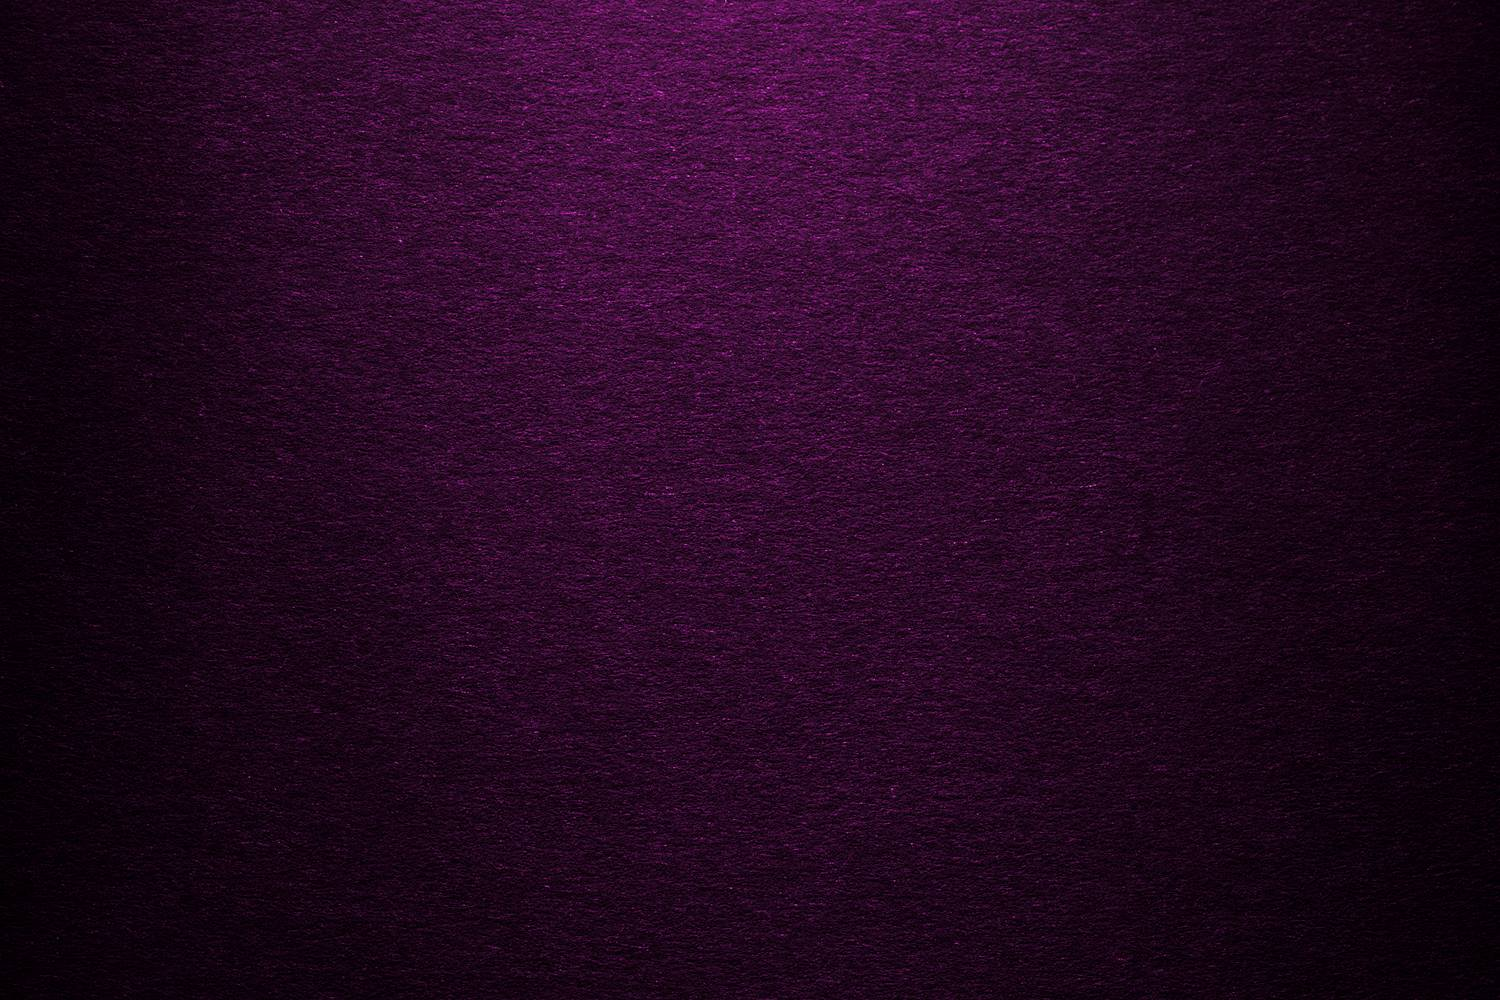
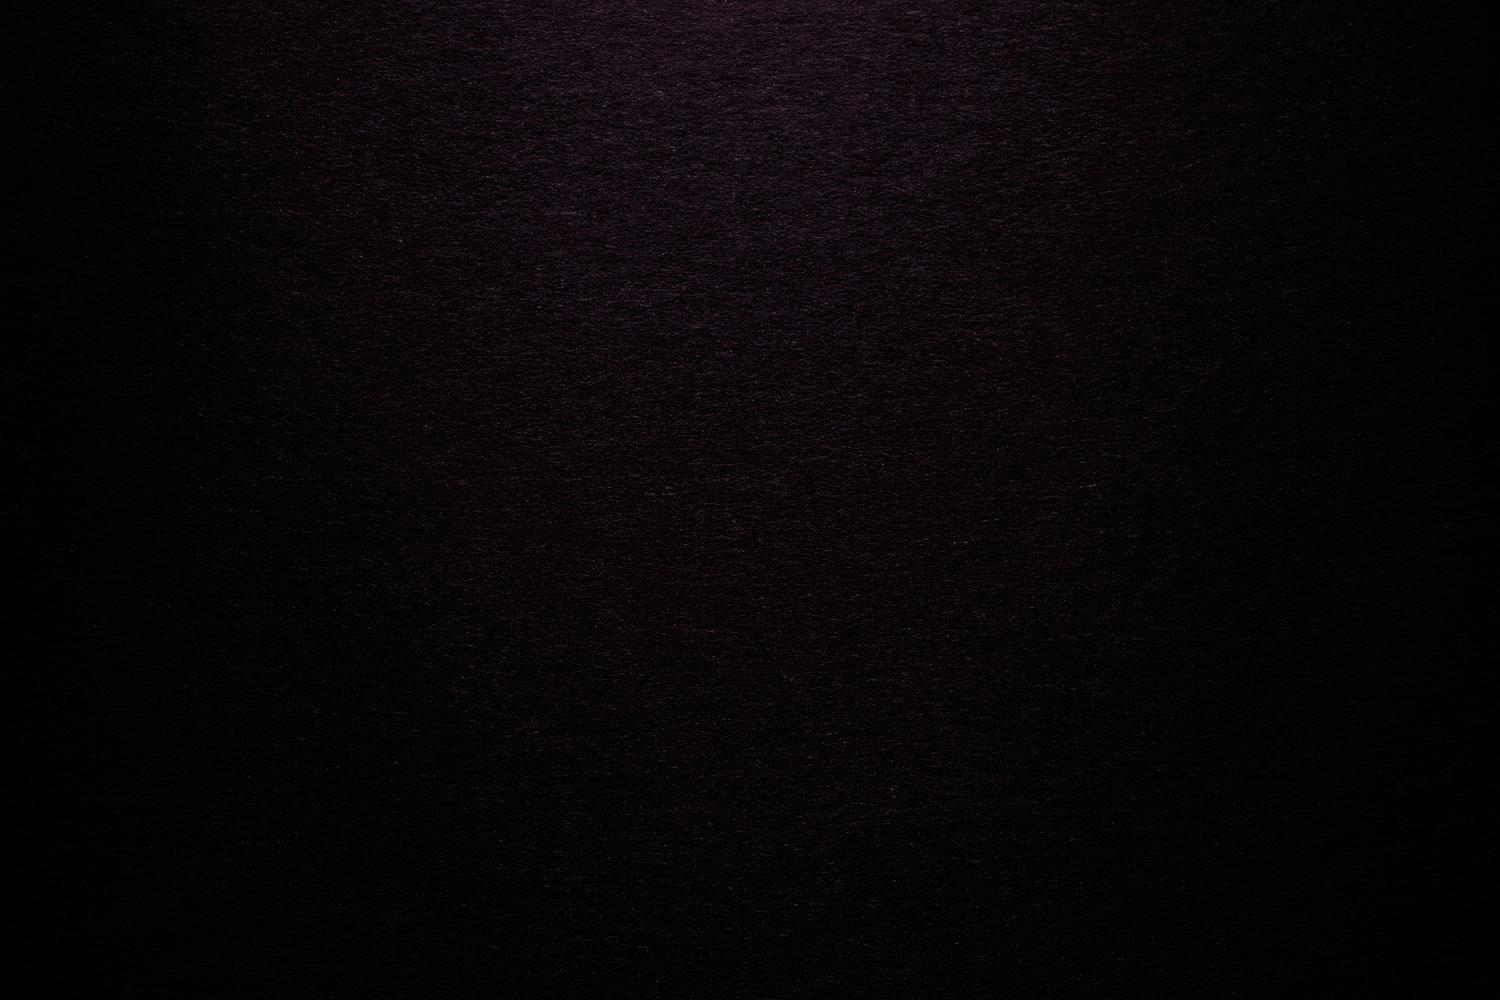
remade header added background image resized main div added "about me" section added first image with hovering added footer

diff --git a/index.html b/index.html
@@ -6,14 +6,20 @@
     <link rel="stylesheet" type="text/css" href="css/estilo.css"/>
 </head>
 <body>
-    <h1>はじめまして。ガブリエルです。</h1>
-    <h2>Site em construção! :)</h2>
     <div id="cabecalho">
-        Selecionar exibição:<br/>
-        <p>Lista&emsp;&emsp;&emsp;&emsp;Mosaico</p>
+    <h1><p>はじめまして。ガブリエルです。</p></h1>
+    <h2><p>Site under construction! :)</p></h2>
+        <main>
+             <p>Here I will expose my <a href="https://pt.wikipedia.org/wiki/Arte_digital" target="_blank">Digital Arts</a> as a personal project for learning HTML, CSS and JavaScript.<br/>
+             どうぞよろしく。</p>
+        </main>
     </div>
     <div id="corpo">
-        <p>Lorem ipsum dolor sit amet, consectetur adipiscing elit. Curabitur pharetra id dui quis mattis. Curabitur interdum felis non nibh tempor convallis. Praesent auctor ligula mattis lorem sagittis, eu posuere ipsum ornare. Aenean arcu est, feugiat sit amet est non, porttitor accumsan ex. Duis in posuere mi. Morbi tempor convallis orci. Donec dictum sodales lectus, quis pellentesque nisl malesuada sed. Vivamus tincidunt risus nisl, vel gravida sapien ultrices et. Donec ac aliquam augue. Suspendisse dignissim mauris at velit scelerisque, sit amet sagittis quam pretium.</p>
+        <h3>Hover the image! ;)</h3>
+        <figure class="imagenscorpo">
+            <img src="images/cavaco.png"/>
+            <figcaption>This is my favorite one, although I still don't now how to draw bodies the right way, I feel like it really describes me. I usually wear black or greyscale clothes, but I really am the funny guy of the group who plays heavier songs like Linkin Park with samba rhythm and always makes "dad jokes". Also I have more tattoos now than on the image. And more ear piercings too.</figcaption>
+        </figure>
 
         <p>Integer gravida neque quis turpis ornare, nec volutpat arcu venenatis. Phasellus accumsan blandit orci quis pellentesque. Etiam porta eros ac odio rhoncus, at condimentum ex auctor. Lorem ipsum dolor sit amet, consectetur adipiscing elit. Quisque viverra diam id ex varius interdum. Sed laoreet fermentum sodales. Maecenas rhoncus sit amet purus venenatis feugiat. Nullam nulla nulla, faucibus id ultrices in, fringilla id justo. Fusce eget volutpat nisl, vel ultrices magna. Etiam dui ipsum, luctus sed lectus aliquam, tincidunt condimentum ante. Donec eleifend, sem at ornare dignissim, enim diam viverra ligula, sit amet tempus arcu nisl vel felis. Cras sed mi ultricies, sodales est nec, facilisis erat. Aenean ut erat sit amet nunc dictum accumsan eget sed lorem. In luctus arcu quis mi ornare consequat. Duis maximus massa vel magna sollicitudin dictum. Aliquam ultricies ornare massa, vel maximus nisl.</p>
 
@@ -27,11 +33,26 @@
 
         <p>Phasellus volutpat tellus non vehicula molestie. Nam ut aliquam neque. Sed sit amet metus vel ante condimentum maximus non vitae tortor. Aenean a facilisis elit. Quisque hendrerit ligula quis pellentesque porta. Vestibulum dapibus aliquet venenatis. Quisque ac nisl nisl. Aliquam erat volutpat.</p>
 
-        <p>Cras in placerat tellus. Aenean non scelerisque tortor. Donec quis tristique risus, at porta tortor. Morbi ut vulputate arcu. Praesent luctus semper finibus. Proin nec congue velit. Aenean molestie arcu odio, nec tempor orci rhoncus eget. Sed tincidunt tortor eget est sagittis, vitae sollicitudin sem consectetur. Integer sit amet imperdiet risus, nec laoreet augue. Morbi non nulla quis ante laoreet tincidunt. Curabitur porttitor tortor sit amet diam vehicula feugiat. Aenean consectetur turpis quis tempus luctus. Suspendisse efficitur vehicula interdum.</p>
 
-        <p>Ut sit amet pretium ipsum, vel scelerisque elit. Ut ac orci eu eros eleifend blandit. Nullam tincidunt, erat vitae consequat laoreet, lectus arcu rutrum lectus, ac accumsan massa velit quis magna. Pellentesque a feugiat tortor. Mauris interdum aliquet est, at sagittis metus laoreet sit amet. Donec at laoreet tellus. Aliquam euismod sollicitudin ullamcorper. Sed id odio ac tortor aliquam fermentum tempor ut nunc. Praesent ultricies condimentum libero non sagittis. Class aptent taciti sociosqu ad litora torquent per conubia nostra, per inceptos himenaeos. Phasellus id consectetur tellus. Sed eu tincidunt nibh. Donec venenatis ultrices lectus quis congue.</p>
-
-        <p>Nullam ac malesuada elit. Quisque nisi augue, finibus in metus ut, consectetur sodales metus. Nulla vitae lectus at neque interdum feugiat. Pellentesque lacus nunc, auctor blandit risus nec, molestie rhoncus ante. Nulla facilisi. Vestibulum ornare tincidunt arcu, pharetra iaculis ex mollis sit amet. Pellentesque habitant morbi tristique senectus et netus et malesuada fames ac turpis egestas.</p>
     </div>
+    <div id="about">
+        <h1>ABOUT ME</h1>
+        <p>Brazilian, born in São José, Santa Catarina. Now living in Canoas, Rio Grande do Sul.</p>
+        <figure>
+            <img src="images/aboutme.jpg" align="right"/>
+        </figure>
+        <p>Studying Computer Science @ Universidade Federal do Rio Grande do Sul.</p>
+        <p>Mainly a C and Java programmer, now learning webdev with HTML, CSS and JavaScript.</p>
+        <p>My hobbies include digital drawing, as you can see, playing all music instruments I can get and watching tons of anime.</p>
+        <p>I speak Brazilian Portuguese, English, and currently leaning Japanese.</p>
+        <p>I guess that is it, so..</p>
+        <p><h2>Thanks for coming!<br/>
+            Obrigado por vir!<br/>
+            来ていただきありがとうございます！</h2></p>
+    </div>
+    <footer>
+        <p>Created by: Gabriel Luiz Carpes Maria<br/>
+        Last update: July 4th, 2018</p>
+    </footer>
 </body>
 </html>

diff --git a/css/estilo.css b/css/estilo.css
@@ -2,42 +2,145 @@
 
 body
 {
-    background-image: url(../_images/background.jpg);
+    background-image: url(../images/background.jpg);
+    background-attachment: fixed;
     background-color: #150738;
-}
-
-h1
-{
-    text-indent: 20px;
-    color: white;
-}
-
-h2
-{
-    text-indent: 20px;
-    color: white;
 }
 
 div#cabecalho
 {
-    font-size: 30px;
-    background-color: rgba(14, 4, 38, 0.4);
-    padding-left: 40px;
+    font-size: 18px;
+    text-indent: justify;
+    margin-left: 20px;
+    padding-left: 20px;
+    color: white;
+    max-width: 55%;
+}
+
+div#cabecalho h1
+{
+    margin-bottom: -80px;
+    color: white;
+}
+
+div#cabecalho h2
+{
     color: white;
 }
 
 div#cabecalho p
 {
-    text-align: center;
-    text-indent: 40px;
+    padding-left: 10px;
+    padding-right: 10px;
+    background-color: rgba(14, 4, 38, 0.65);
+    display: inline-block;
 }
+
 
 div#corpo
 {
+    padding-left: 10px;
+    padding-right: 10px;
+    margin-left: 20px;
     color: white;
     font-size: 20px;
+    text-indent: 15px;
     text-align: justify;
-    min-height: 90%;
-    min-width: 90%;
-    background-color: rgba(14, 4, 38, 0.4);
+    width: 60%;
+    background-color: rgba(14, 4, 38, 0.65);
+}
+
+div#corpo h3
+{
+    padding-top: 15px;
+}
+
+div#about
+{
+    max-width: 30%;
+    text-align: justify;
+    color: whitesmoke;
+    position: fixed;
+    padding-left: 10px;
+    padding-right: 10px;
+    top: 20%;
+    left: 65%;
+    background-color: rgba(11, 1, 33, 0.6);
+    z-index: 0;
+}
+
+div#about p
+{
+    text-indent: 15px;
+}
+
+div#about h2
+{
+    padding-left: 10px;
+    font-size: 20px;
+}
+
+div#about h1
+{
+    text-indent: 25px;
+    color: white;
+}
+
+div#about img
+{
+    margin-left: 20px;
+    margin-right: -30px;
+    z-index: 1;
+    float: right;
+    border: 4px solid white;
+    box-shadow: 1px 1px 4px dimgrey;
+}
+
+figure.imagenscorpo
+{
+    position: relative;
+    max-height: 60%;
+    max-width: 60%;
+    border: 4px solid purple;
+    box-shadow: 1px 1px 4px dimgrey;
+}
+
+figure.imagenscorpo img
+{
+    width: 100%;
+    height: 100%;
+    margin-left: -15px;
+    margin-bottom: -5px;
+}
+
+figure.imagenscorpo figcaption
+{
+    opacity: 0;
+    position: absolute;
+    top: 0px;
+    padding-left: 5px;
+    padding-right: 5px;
+    background-color: rgba(0, 0, 0, 0.7);
+    color: white;
+    text-indent: justify;
+    height: 100%;
+    width: 100%;
+    box-sizing: border-box;
+    transition: opacity 1s;
+}
+
+figure.imagenscorpo:hover figcaption
+{
+    opacity: 1;
+}
+
+footer
+{
+    width: 100%;
+    height: 50px;
+    padding-top: 2px;
+    color: dimgrey;
+    font-size: 12px;
+    text-align: right;
+    background-color: rgb(14, 4, 38);
 }
